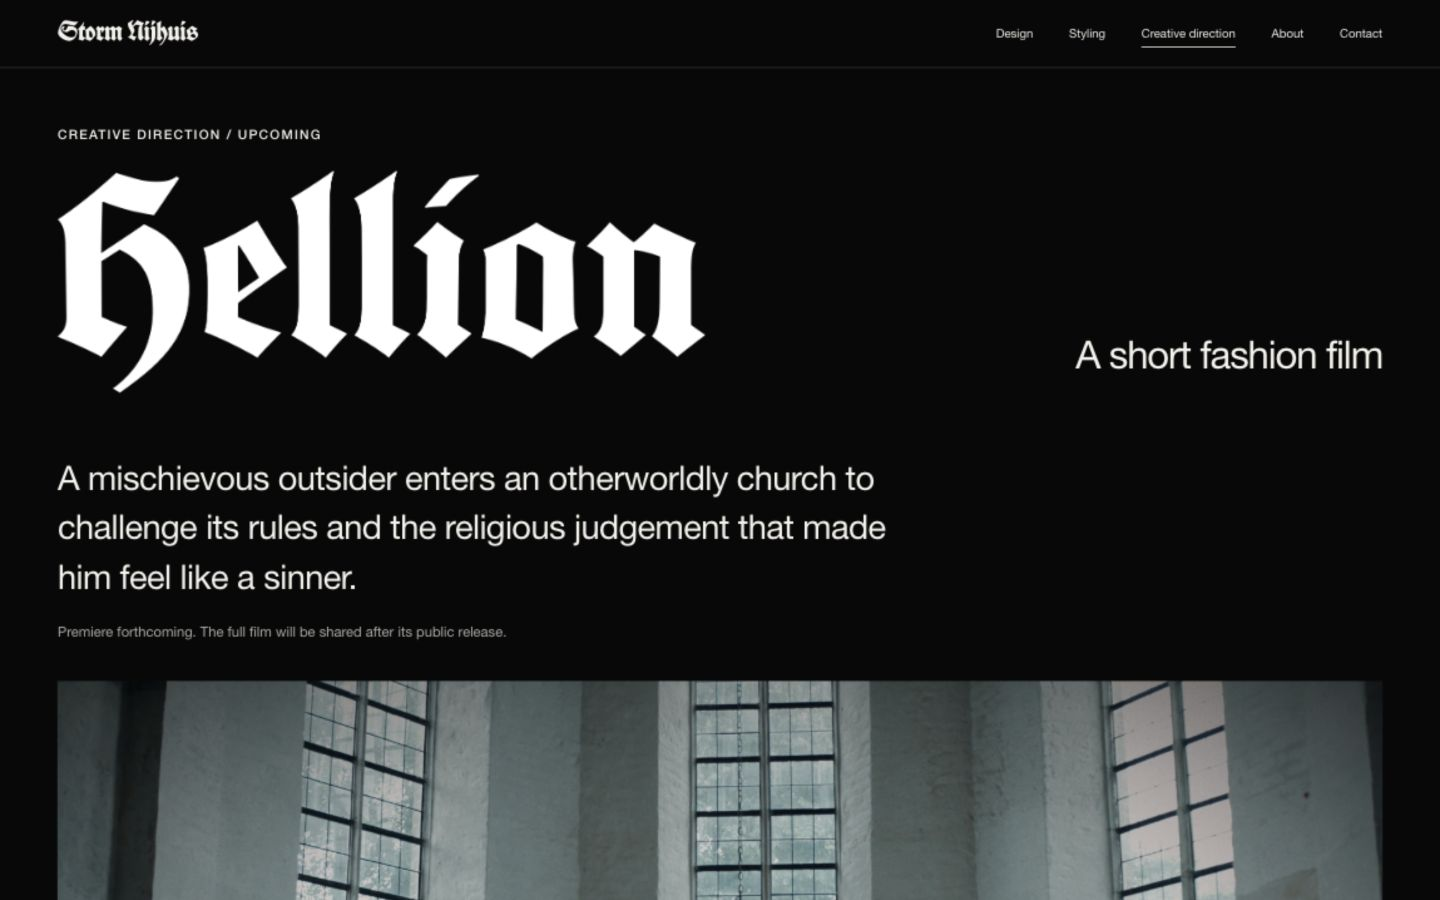
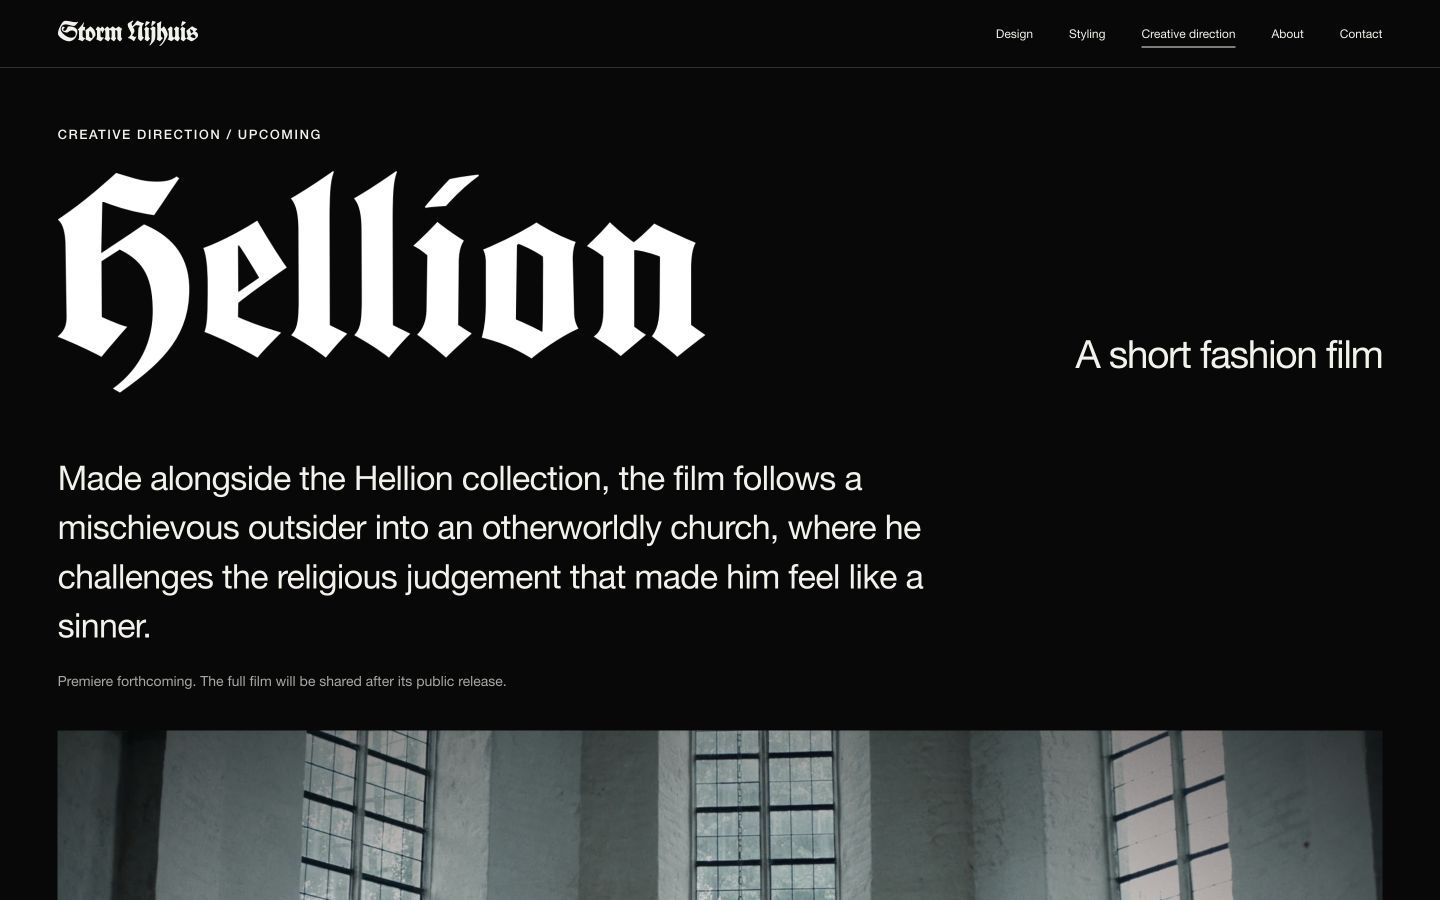
Clarify the film and collection connection in the opening summary

diff --git a/src/content.js b/src/content.js
@@ -27,7 +27,7 @@ export const film = {
   format: 'A short fashion film',
   status: 'Upcoming',
   embedUrl: null,
-  logline: 'A mischievous outsider enters an otherworldly church to challenge its rules and the religious judgement that made him feel like a sinner.',
+  logline: 'Made alongside the Hellion collection, the film follows a mischievous outsider into an otherworldly church, where he challenges the religious judgement that made him feel like a sinner.',
   synopsis: [
     'As the church bells ring, Hellion arrives in a place where sacred rules decide what is good and what is sinful. He interrupts its rituals and acts on the desires he was taught to fear. His rebellion brings him into conflict with the Nun, who stands for the rules he is trying to escape.',
     'The film comes from my experience of growing up queer in a small town surrounded by Catholic beliefs. It asks who gets to define purity and sin, and how those ideas affect the way we see ourselves. Hellion approaches these questions through humour, religious symbolism and a character who refuses to behave.',
